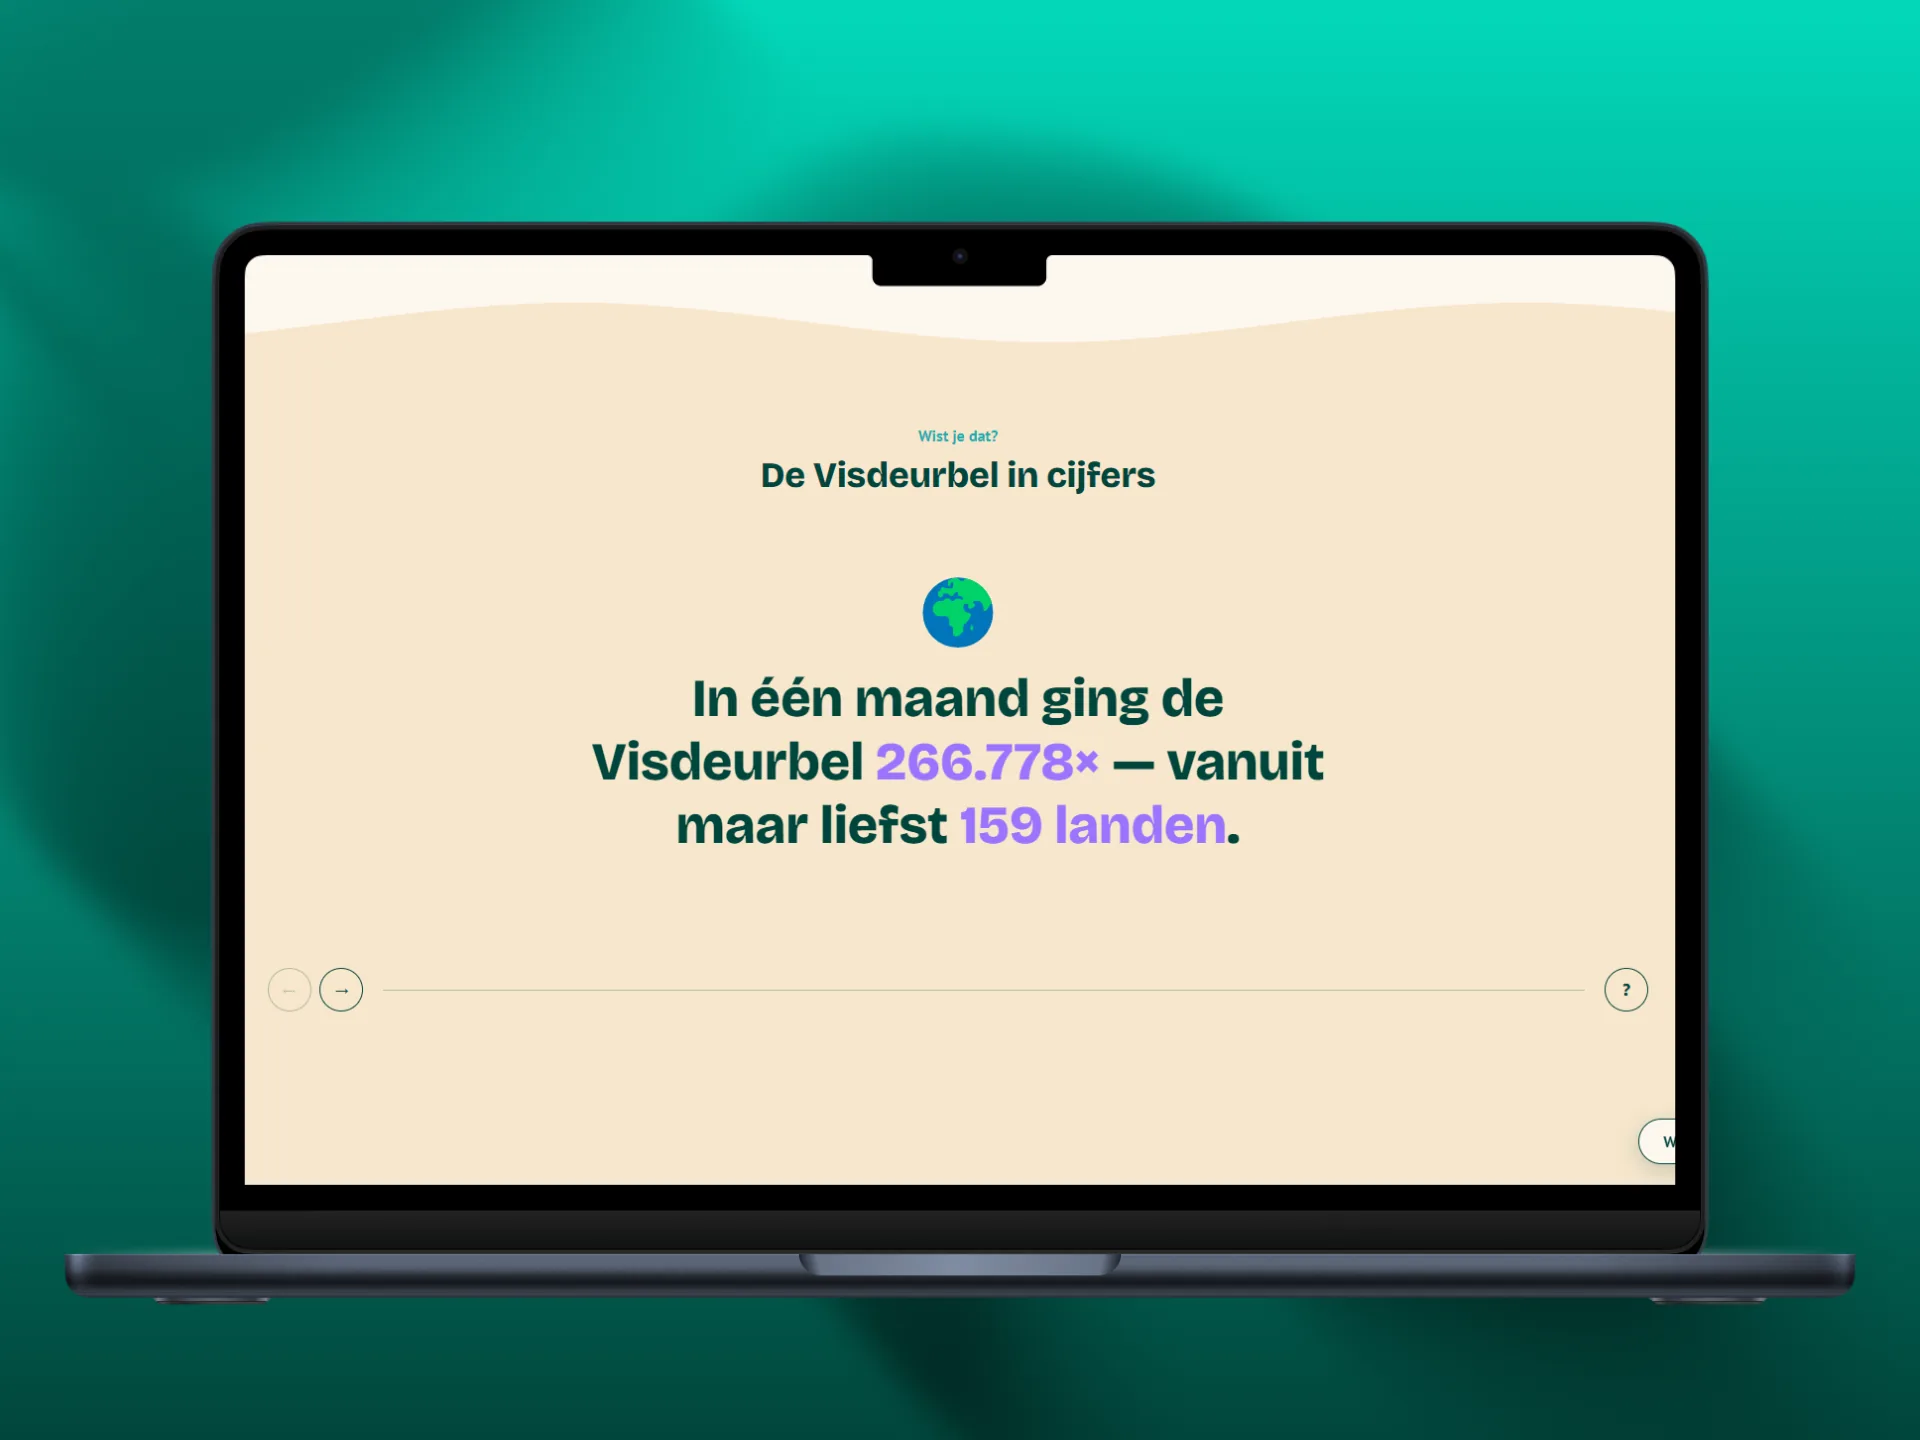
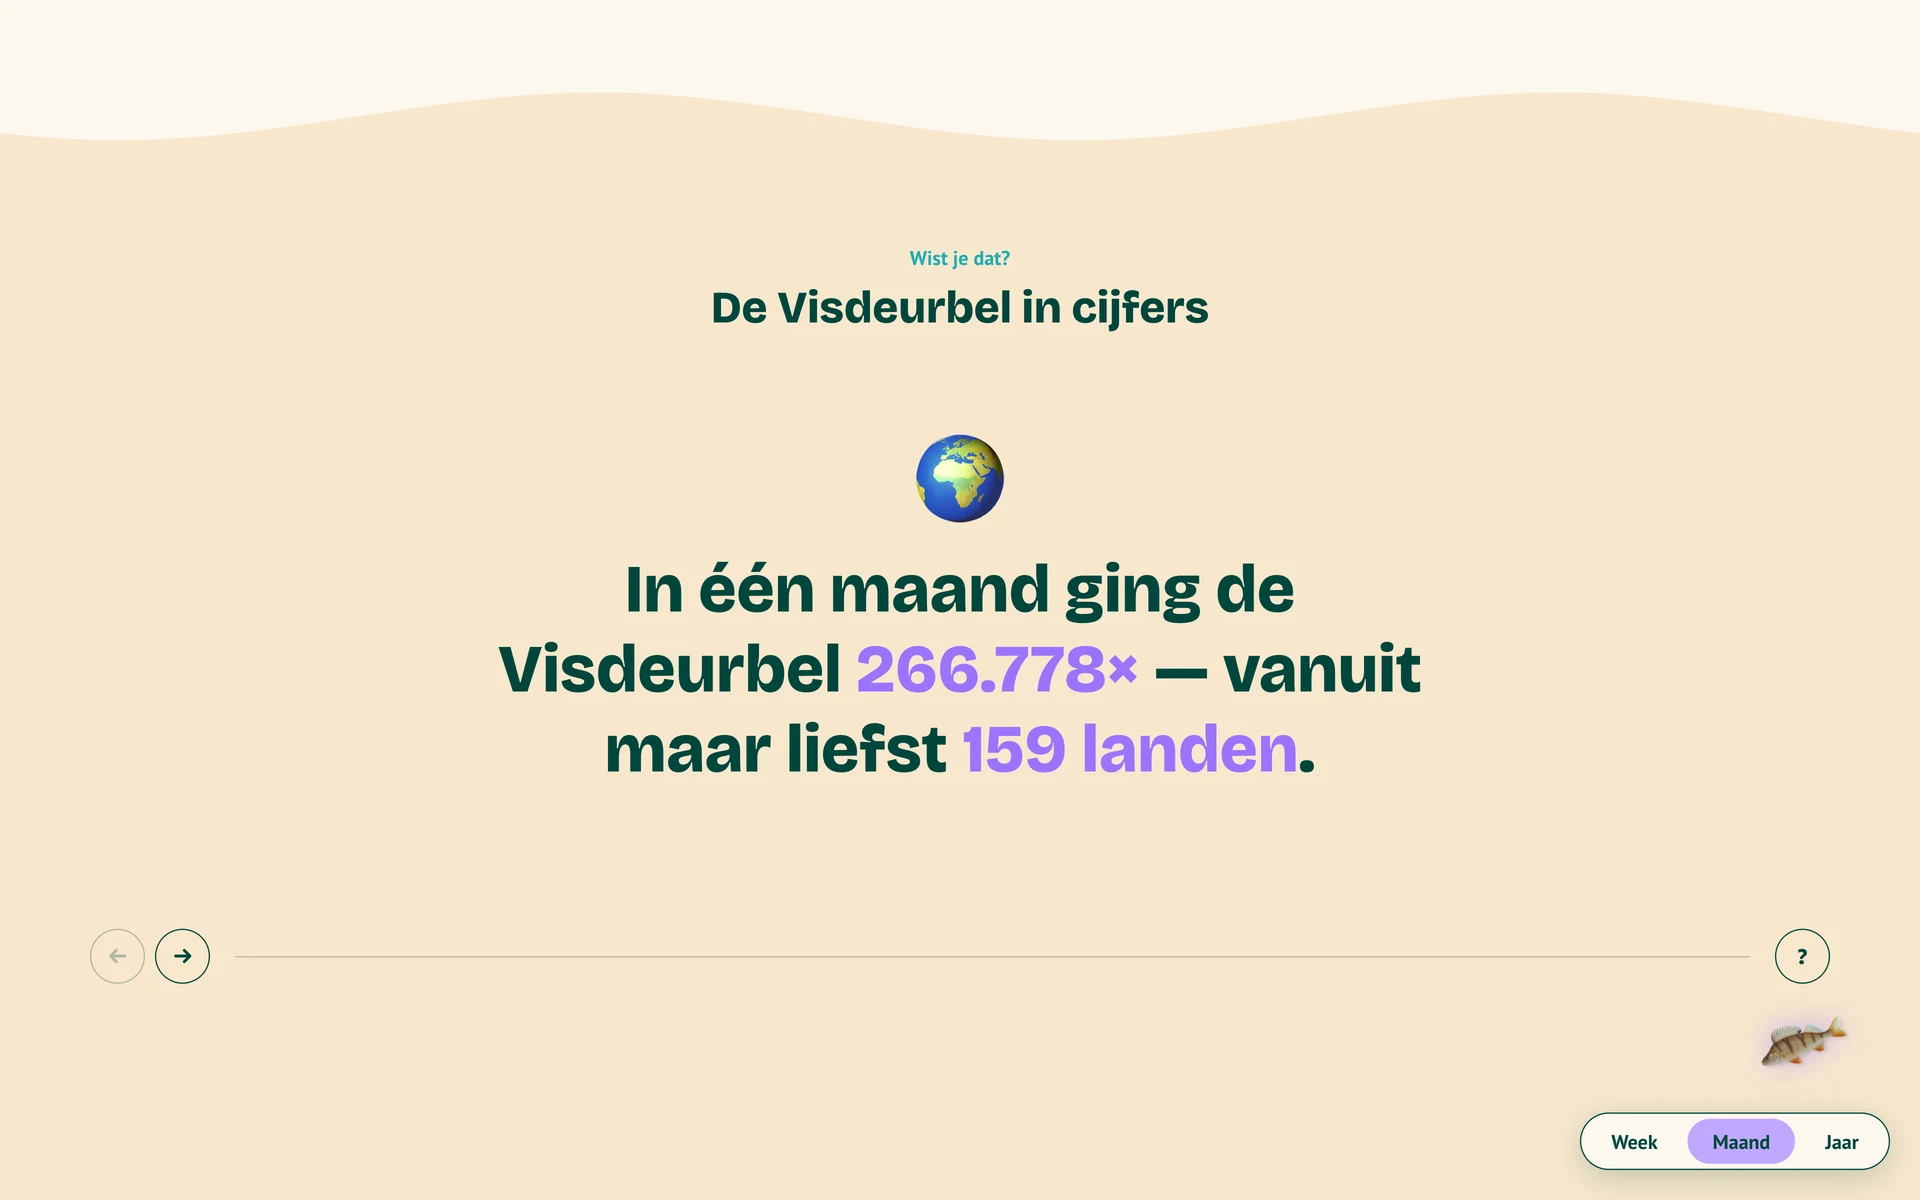
added visdeurbel case study

diff --git a/assets/js/work/case-studies.js b/assets/js/work/case-studies.js
@@ -302,25 +302,123 @@ window.CASE_STUDIES = [
     slug: 'visdeurbel',
     title: 'Visdeurbel Datavis.',
     label: 'Data visualisation',
-    intro: 'A data visualisation of the fish that ring the Utrecht fish doorbell: which species pass the lock, and when.',
+    intro: 'A scrolling data story for the Visdeurbel, Utrecht’s fish doorbell. It turns one month of rings, visitors and fish into an aquarium, a sonar, a cloud of languages and a set of bubbles. The page was built by a team of four; these are my chapters.',
     image: 'assets/img/projects/visdeurbel.webp',
     live: 'https://vis-b05f.onrender.com/',
     gallery: [
-      { src: 'assets/img/projects/visdeurbel/schetsen-1.jpeg', alt: 'Early sketches for the visualisation' },
-      { src: 'assets/img/projects/visdeurbel/canal-wall.jpg', alt: 'The canal wall at the lock' },
-      { src: 'assets/img/projects/visdeurbel/schetsen-2.jpeg', alt: 'Sketches of the layout' },
-      { src: 'assets/img/projects/visdeurbel/schetsen-3.jpeg', alt: 'Sketches of the fish species' },
+      { src: 'assets/img/projects/visdeurbel/mobile.webp', alt: 'The aquarium chapter on a phone, with the species filters above the tank' },
+      { src: 'assets/img/projects/visdeurbel/schetsen-1.jpeg', alt: 'First sketches: swimming fish, bubbles per species and a rotating sonar' },
+      { src: 'assets/img/projects/visdeurbel/mobile-radar.webp', alt: 'The sonar chapter on a phone, with the time slider below it' },
+      { src: 'assets/img/projects/visdeurbel/languages.webp', alt: 'The word for fish in every visitor language, sized by visitors' },
     ],
     facts: [
       { label: 'Year', value: '2026' },
-      { label: 'Role', value: 'Concept, design & development' },
-      { label: 'Type', value: 'Data visualisation' },
+      { label: 'Role', value: 'Concept, design & development of five chapters' },
+      { label: 'Client', value: 'Studio MOAN, for the CMD final project' },
+      { label: 'Built with', value: 'React, D3, GSAP, Python' },
     ],
     story: [
-      { heading: 'The brief', body: 'Thousands of people watch the fish doorbell camera and press the button for the lock keeper. The question was what all those sightings say once you put them together.' },
-      { heading: 'The approach', body: 'I started on paper, sketching how species and seasons could share one view, then built it in the browser with the real data.' },
-      { heading: 'The result', body: 'An interactive piece that lets you browse the species and see the pattern behind the sightings.' },
+      { heading: 'The brief', body: 'The Visdeurbel is a live underwater camera at a lock in Utrecht. When viewers see a fish waiting, they ring the bell and the lock keeper lets it through. For our final project at CMD Amsterdam, Studio MOAN asked a team of four students to show what all those rings say once you put them together, on one scrolling page.' },
+      { heading: 'The constraints', body: 'One month of the doorbell is a 288 MB event log, far too big for a browser. The audience is the same people who watch the camera for fun, so the page had to feel playful, not like a dashboard. And the log records that a fish was reported, not which fish. The rings, countries, languages and hours are real; the split per species is an illustrative estimate scaled to the real number of reports.' },
+      { heading: 'The approach', body: 'I started on paper with swimming fish, bubbles per species and a rotating sonar, then built each idea as a chapter that draws itself as you scroll into it. I prototyped more than ten chapters, from a ring calendar to a tide wave and a pond that replays a week, and cut them back to five that each answer one question. The decisions below show how that played out.' },
     ],
+
+    decisions: [
+      {
+        label: 'The opener',
+        heading: 'Start with numbers anyone can repeat.',
+        body: 'Before any chart, a carousel of eight facts reads the dataset and turns it into sentences with the key number in purple: how often the bell rang, how many people rang it, the most fanatic ringer, the busiest hour. A question-mark button opens a one-line note on where each number comes from, so the claims stay checkable without cluttering the slide.',
+        quote: { text: 'De Visdeurbel in cijfers.', translation: 'The fish doorbell in numbers.' },
+        image: 'assets/img/projects/visdeurbel/facts.webp',
+        alt: 'The facts carousel: 33,748 people pressed the button 49,736 times, with its source note open',
+      },
+      {
+        label: 'The aquarium',
+        heading: 'Make the total feel alive.',
+        body: 'Nobody can picture 49,736 reports, so the aquarium shows a sample of 80 fish, with each species getting its share of the real total. Size follows the cube root of weight, so a catfish is big without filling the tank. Chips switch species on and off, hovering names a fish and its length, and a click sends a ripple through the water that scares nearby fish away.',
+        quote: { text: 'Dit is hoe 49.736 waarnemingen er ongeveer uitzien.', translation: 'This is roughly what 49,736 sightings look like.' },
+        image: 'assets/img/projects/visdeurbel/aquarium.webp',
+        alt: 'The aquarium with twelve species swimming and the filter chips beside it',
+      },
+      {
+        label: 'The sonar',
+        heading: 'A radar for what is under the lock.',
+        body: 'Each species is a ping on a sonar, and the more often it was seen, the closer it sits to the centre. A sweep line lights the pings as it passes. A slider steps through the month week by week, and the pings glide in and out as their counts change. The layout is seeded, so the same species is always in the same direction and you can follow it through time.',
+        quote: { text: 'Wat zwemt er onder de sluis?', translation: 'What is swimming under the lock?' },
+        image: 'assets/img/projects/visdeurbel/radar.webp',
+        alt: 'The sonar in week 2, with the bleak highlighted at 723 sightings',
+      },
+      {
+        label: 'The languages',
+        heading: 'Every visitor’s language, as its word for fish.',
+        body: 'The doorbell has a worldwide audience, and the browser language shows it. Each language appears as its own word for fish, sized by the number of visitors, from Fish, Ryba and Fisch down to 魚 and Kala. A force simulation lets the words drift together without overlapping, and hovering one shows its exact count and share.',
+        quote: { text: 'De sluis spreekt vele talen tegelijk.', translation: 'The lock speaks many languages at once.' },
+        image: 'assets/img/projects/visdeurbel/languages.webp',
+        alt: 'A cloud of the word for fish in 26 languages, with English, Polish and German largest',
+      },
+      {
+        label: 'The bubbles',
+        heading: 'Count, weight, or both.',
+        body: 'The last chapter packs every species into a bubble and asks a better question than “which fish is most common?”. Switch between number of sightings, weight per fish and biomass, and the bubbles resize and slide to their new places. On biomass, a handful of catfish outweighs a whole school of roach.',
+        quote: { text: 'Elke soort, een eigen bel.', translation: 'Every species, a bubble of its own.' },
+        image: 'assets/img/projects/visdeurbel/net.webp',
+        alt: 'The bubble chart on biomass, with the catfish as the largest bubble',
+      },
+    ],
+
+    system: {
+      heading: 'The Visdeurbel’s own colours, under water.',
+      body: 'The chapters use the existing Visdeurbel identity from Studio MOAN’s design file, so the page feels like part of the doorbell site. Deep green carries the text, purple marks every key number, and each chapter gets its own background, joined by drifting waves like on visdeurbel.nl. Scrolling down feels like moving through layers of water.',
+      colors: [
+        { name: 'Dark green', hex: '#01463C' },
+        { name: 'Teal', hex: '#1EACB0' },
+        { name: 'Purple', hex: '#C0A8FF' },
+        { name: 'Bell purple', hex: '#9B74FF' },
+        { name: 'Pink', hex: '#FF80B9' },
+        { name: 'Gold', hex: '#F0AF00' },
+        { name: 'Light gold', hex: '#F8E7CD' },
+        { name: 'Off-white', hex: '#FDF7EF' },
+      ],
+      fonts: [
+        { name: 'Bricolage Grotesque', use: 'Headings, key numbers and the language cloud' },
+        { name: 'PT Sans', use: 'Body text, labels and tooltips' },
+      ],
+    },
+
+    structure: {
+      heading: 'Five chapters, from the big number to the single fish.',
+      body: 'The chapters go from the whole picture to the detail: how big is it, what does it look like, what lives there, who is watching, and what does it weigh?',
+      steps: [
+        { title: 'In numbers', text: 'Eight facts about one month of the doorbell, each with its source.' },
+        { title: 'Aquarium', text: '80 fish in proportion to the real reports, with filters and a scare effect.' },
+        { title: 'Sonar', text: 'Twelve species as pings, with a slider through the weeks.' },
+        { title: 'Languages', text: 'The word for fish in 26 languages, sized by visitors.' },
+        { title: 'Bubbles', text: 'Every species by count, weight per fish or biomass.' },
+      ],
+    },
+
+    build: {
+      heading: '288 MB of events, 40 KB in the browser.',
+      body: 'The page is a React app with Vite. The chapters are drawn with D3 on SVG and canvas, and GSAP drives the guide fish. A Python script does the heavy work before anything reaches the browser.',
+      notes: [
+        { title: 'Count before the browser', text: 'A Python script reads the raw event log line by line and counts everything the chapters need, by country, language, hour and day. Each period becomes a JSON file of about 40 KB.' },
+        { title: 'Draw on arrival', text: 'Each chapter registers a draw function under its section id. One IntersectionObserver calls it the first time the section scrolls into view, and canvas animations pause again when they leave it.' },
+        { title: 'One switch for every chapter', text: 'A Week, Month and Year switch cancels every running animation and observer, clears the chapters and loads the other dataset, after which each chapter redraws as you reach it. The full year is too big to load, so the year view is an estimate built from the month.' },
+        { title: 'A guide that swims along', text: 'A small perch follows you down the page. Every frame it finds the chart nearest the middle of the screen and circles it, with the angle tied to your scroll position. When no chart is in view, it bobs in the corner.' },
+        { title: 'One image per species', text: 'Each fish is a single greyscale photo, tinted per pixel in its species colour on an offscreen canvas and cached, so the aquarium draws 80 fish every frame without loading 80 images.' },
+        { title: 'Accessible and calm', text: 'Every ping, bubble and word can be reached with the keyboard and has a spoken label, and summaries update in live regions. With reduced motion, the guide fish stays away, the simulations settle at once and the transitions are skipped.' },
+      ],
+    },
+
+    figures: {
+      heading: 'One month of the doorbell, in five chapters.',
+      items: [
+        { value: '49.7', unit: 'K', label: 'Rings, from 18 April to 18 May 2026' },
+        { value: '159', label: 'Countries watching the camera' },
+        { value: '26', label: 'Visitor languages in the cloud' },
+        { value: '40', unit: 'KB', label: 'Of data in the browser, down from 288 MB of raw events' },
+      ],
+    },
   },
   {
     // TODO: add `live:` once the site has its public address.
